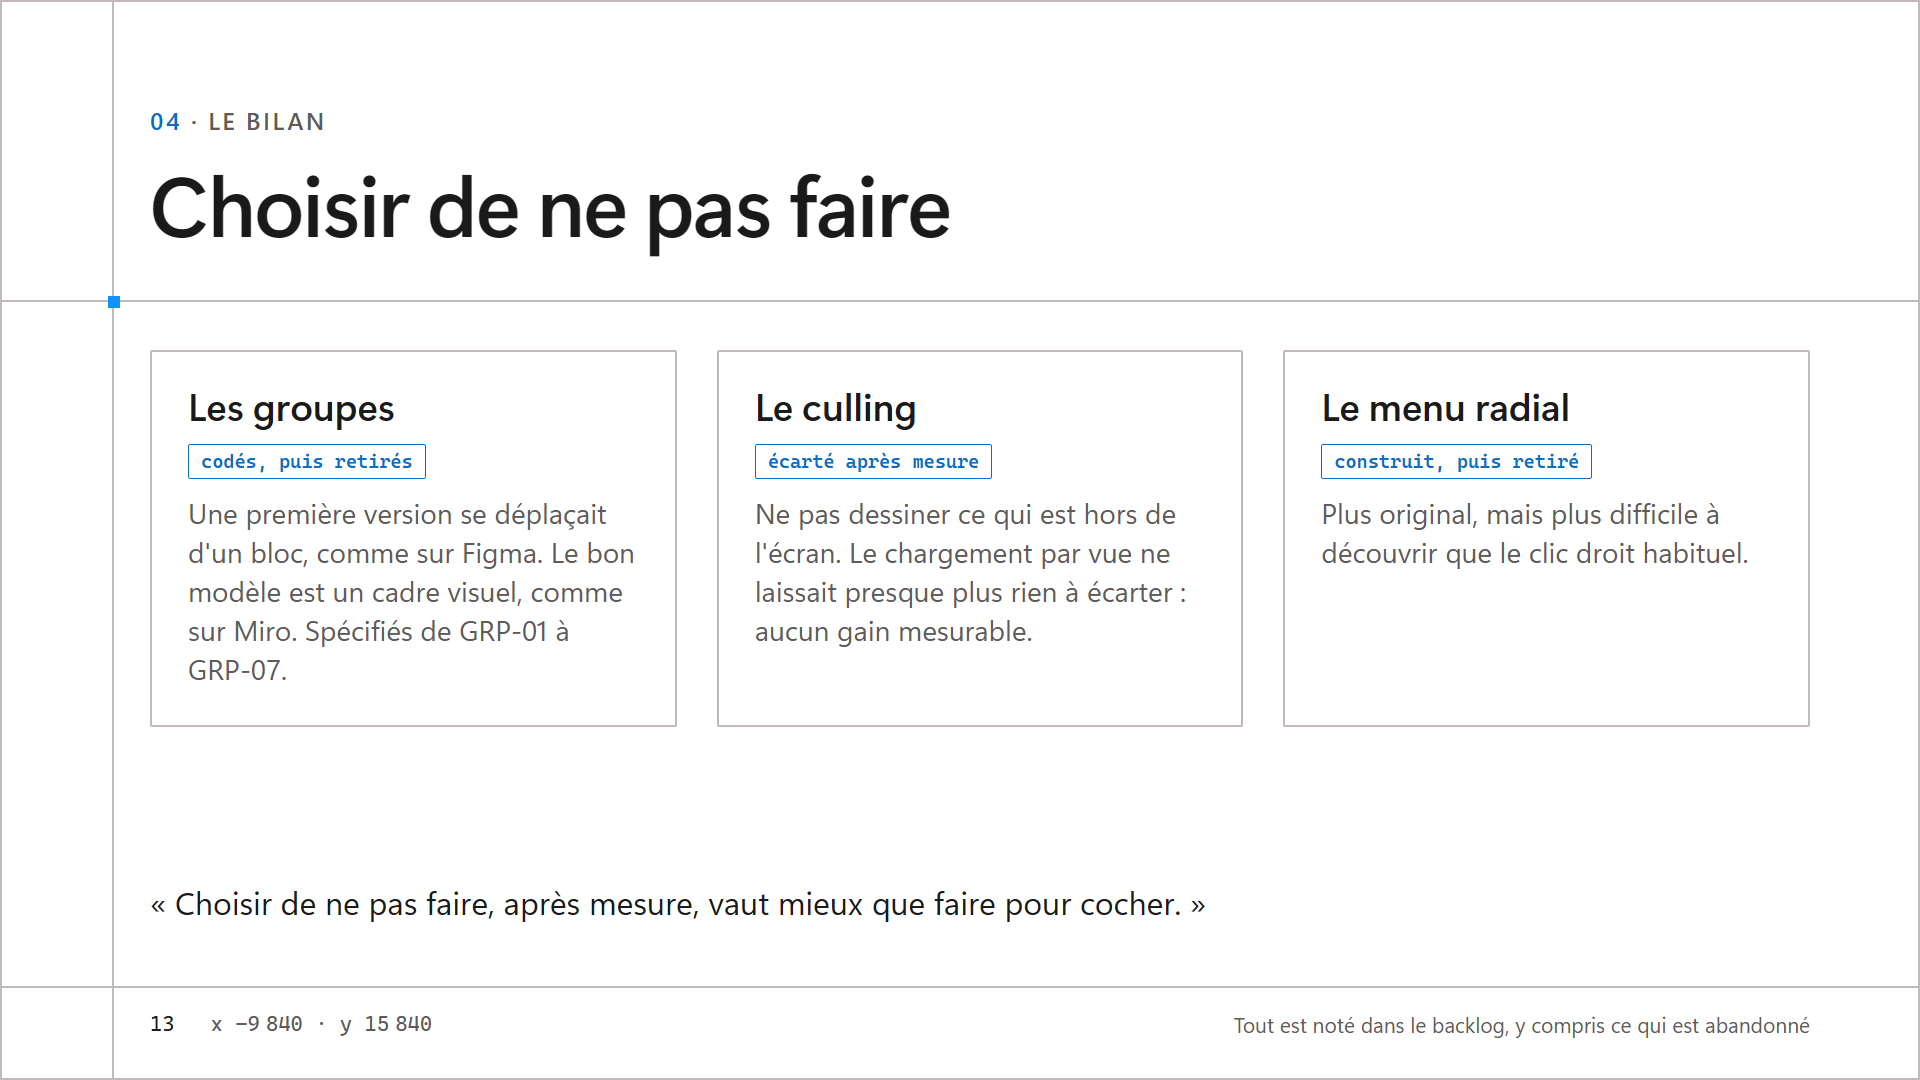
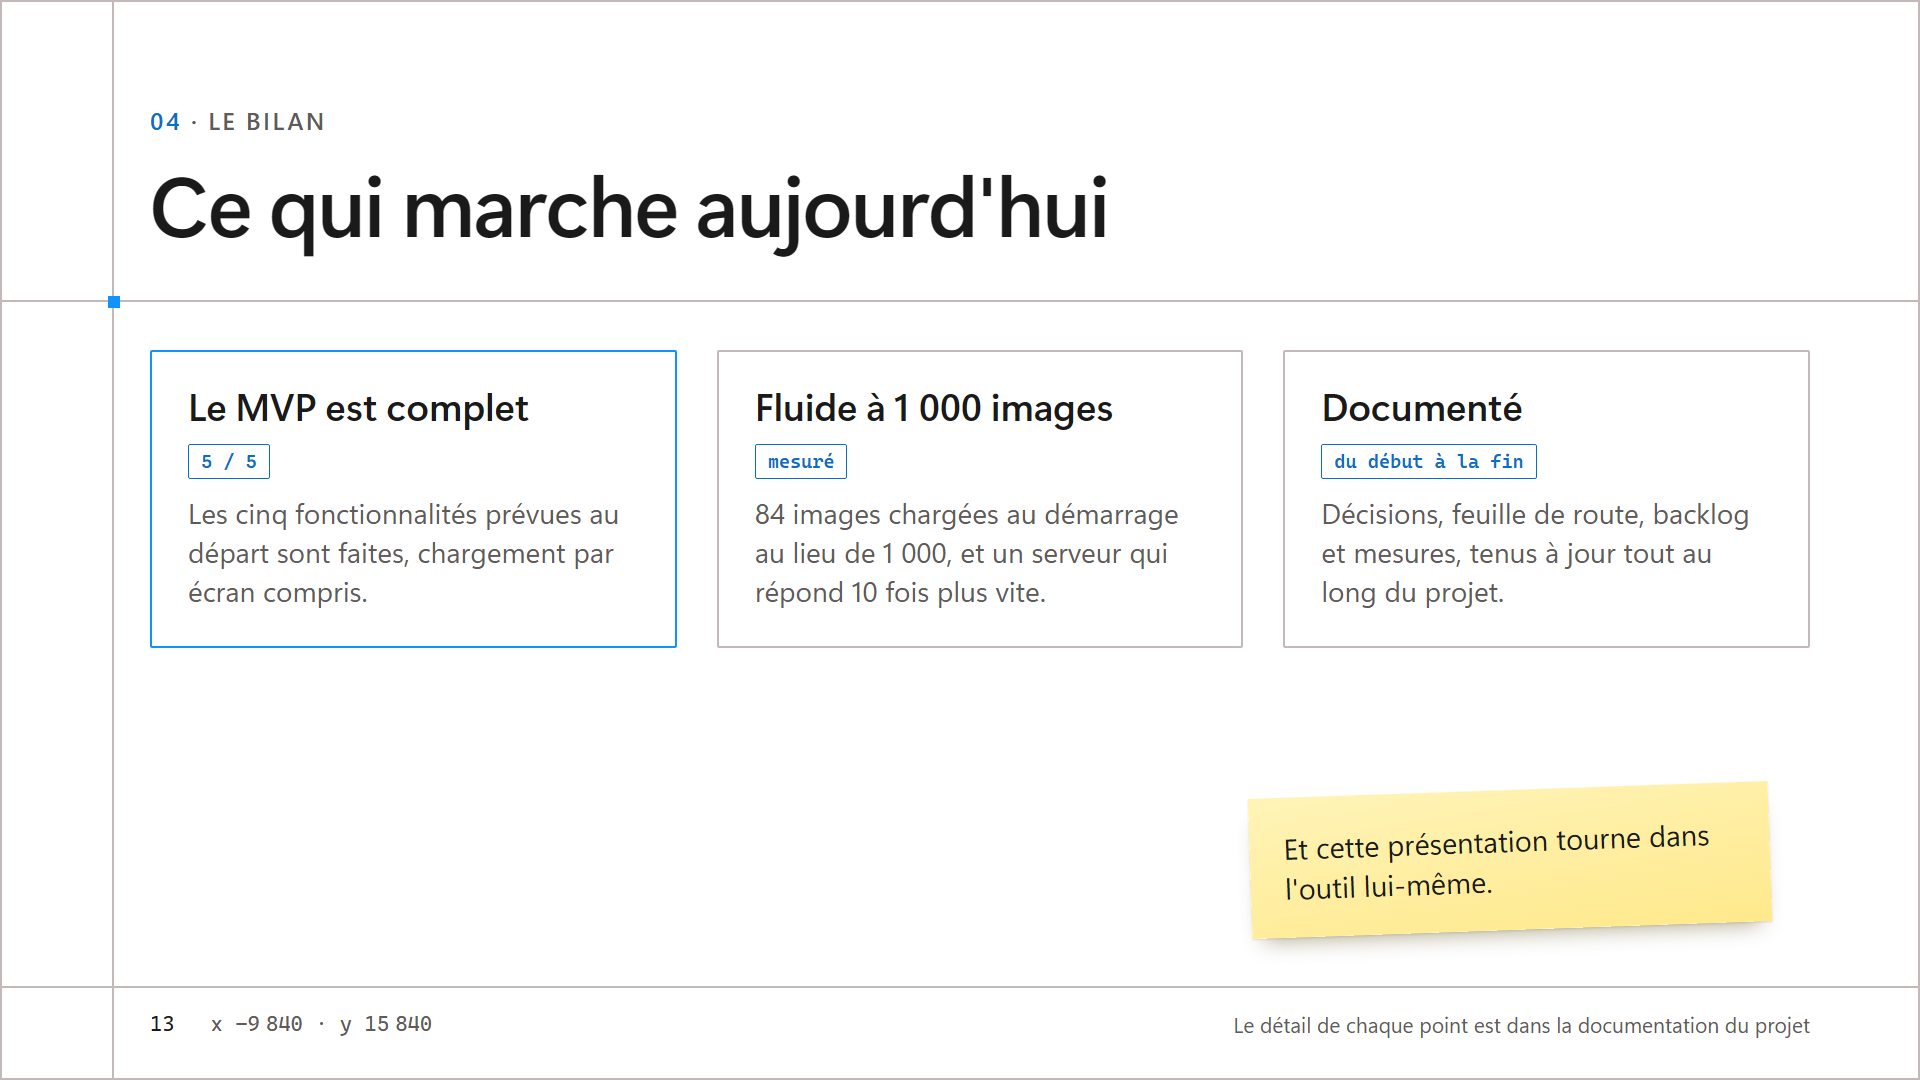
End the defense on a positive review
Replace the "choosing not to do" slide with what works today (complete
MVP, measured fluidity at 1,000 images, documentation kept up to date),
and swap the known weaknesses on the next-steps slide for what the
project taught. Demo layout saved again before rebuilding the board.

diff --git a/docs/soutenance/slides/slides.html b/docs/soutenance/slides/slides.html
@@ -415,26 +415,26 @@ kbd { display: inline-block; padding: 1px 10px; border: 1.5px solid var(--line);
 <section class="slide">
     <i class="line v"></i><i class="line h top"></i><i class="line h bottom"></i><i class="cross"></i>
     <p class="kicker"><span class="num">04</span> · Le bilan</p>
-    <h1>Choisir de ne pas faire</h1>
+    <h1>Ce qui marche aujourd'hui</h1>
     <div class="block cards3" style="left:150px;top:350px;width:1660px">
-        <article class="card">
-            <h3>Les groupes</h3>
-            <span class="tag">codés, puis retirés</span>
-            <p>Une première version se déplaçait d'un bloc, comme sur Figma. Le bon modèle est un cadre visuel, comme sur Miro. Spécifiés de GRP-01 à GRP-07.</p>
+        <article class="card accent">
+            <h3>Le MVP est complet</h3>
+            <span class="tag">5 / 5</span>
+            <p>Les cinq fonctionnalités prévues au départ sont faites, chargement par écran compris.</p>
         </article>
         <article class="card">
-            <h3>Le culling</h3>
-            <span class="tag">écarté après mesure</span>
-            <p>Ne pas dessiner ce qui est hors de l'écran. Le chargement par vue ne laissait presque plus rien à écarter&nbsp;: aucun gain mesurable.</p>
+            <h3>Fluide à <span class="nw">1 000</span> images</h3>
+            <span class="tag">mesuré</span>
+            <p>84 images chargées au démarrage au lieu de <span class="nw">1 000</span>, et un serveur qui répond 10 fois plus vite.</p>
         </article>
         <article class="card">
-            <h3>Le menu radial</h3>
-            <span class="tag">construit, puis retiré</span>
-            <p>Plus original, mais plus difficile à découvrir que le clic droit habituel.</p>
+            <h3>Documenté</h3>
+            <span class="tag">du début à la fin</span>
+            <p>Décisions, feuille de route, backlog et mesures, tenus à jour tout au long du projet.</p>
         </article>
     </div>
-    <p class="block quote" style="left:150px;top:880px">«&nbsp;Choisir de ne pas faire, après mesure, vaut mieux que faire pour cocher.&nbsp;»</p>
-    <div class="footer"><span class="page"></span><span class="where"></span><span class="end">Tout est noté dans le backlog, y compris ce qui est abandonné</span></div>
+    <p class="postit" style="left:1250px;top:790px;width:520px">Et cette présentation tourne dans l'outil lui-même.</p>
+    <div class="footer"><span class="page"></span><span class="where"></span><span class="end">Le détail de chaque point est dans la documentation du projet</span></div>
 </section>
 
 <section class="slide">
@@ -442,18 +442,18 @@ kbd { display: inline-block; padding: 1px 10px; border: 1.5px solid var(--line);
     <p class="kicker"><span class="num">04</span> · Le bilan</p>
     <h1>Et ensuite, dans cet ordre</h1>
     <ol class="block numbered" style="left:150px;top:350px;width:1000px;gap:24px">
-        <li><span class="step">1</span><p><b>Les tests automatisés</b><span class="what">ma dette principale&nbsp;: sans eux, tout le reste devient risqué</span></p></li>
+        <li><span class="step">1</span><p><b>Les tests automatisés</b><span class="what">la base pour faire évoluer le reste en toute sécurité</span></p></li>
         <li><span class="step">2</span><p><b>Les vignettes (LOD)</b><span class="what">de ~60 à plus de <span class="nw">1 000</span> images 4K</span></p></li>
-        <li><span class="step">3</span><p><b>Le code JavaScript en modules</b><span class="what">moins de bugs, et c'est le prérequis du plugin Obsidian</span></p></li>
+        <li><span class="step">3</span><p><b>Le code JavaScript en modules</b><span class="what">chaque fichier dit de quoi il dépend&nbsp;: le prérequis du plugin Obsidian</span></p></li>
         <li><span class="step">4</span><p><b>Les groupes</b><span class="what">déjà spécifiés, il reste à les coder</span></p></li>
         <li><span class="step">5</span><p><b>Plusieurs boards</b><span class="what">la base est prête, il manque l'interface</span></p></li>
     </ol>
     <aside class="block card" style="left:1250px;top:350px;width:560px">
-        <h3 style="font-size:34px">Faiblesses connues</h3>
-        <ul style="margin-top:20px;display:flex;flex-direction:column;gap:18px;font-size:26px;line-height:1.4;color:var(--ink-dim)">
-            <li>L'extension des fichiers importés vient de leur nom&nbsp;: correctif d'une ligne, connu.</li>
-            <li>Pas d'outil de migration de la base (Alembic).</li>
-            <li>L'ordre d'affichage des éléments n'est pas enregistré.</li>
+        <h3 style="font-size:34px">Ce que ce projet m'a appris</h3>
+        <ul style="margin-top:20px;display:flex;flex-direction:column;gap:18px;font-size:27px;line-height:1.4;color:var(--ink-dim)">
+            <li>Mesurer avant d'optimiser.</li>
+            <li>Garder le serveur et l'interface indépendants.</li>
+            <li>Documenter ses choix au fil de l'eau.</li>
         </ul>
     </aside>
     <div class="footer"><span class="page"></span><span class="where"></span><span class="end">Le détail et le coût de chaque point sont dans la documentation du projet</span></div>
